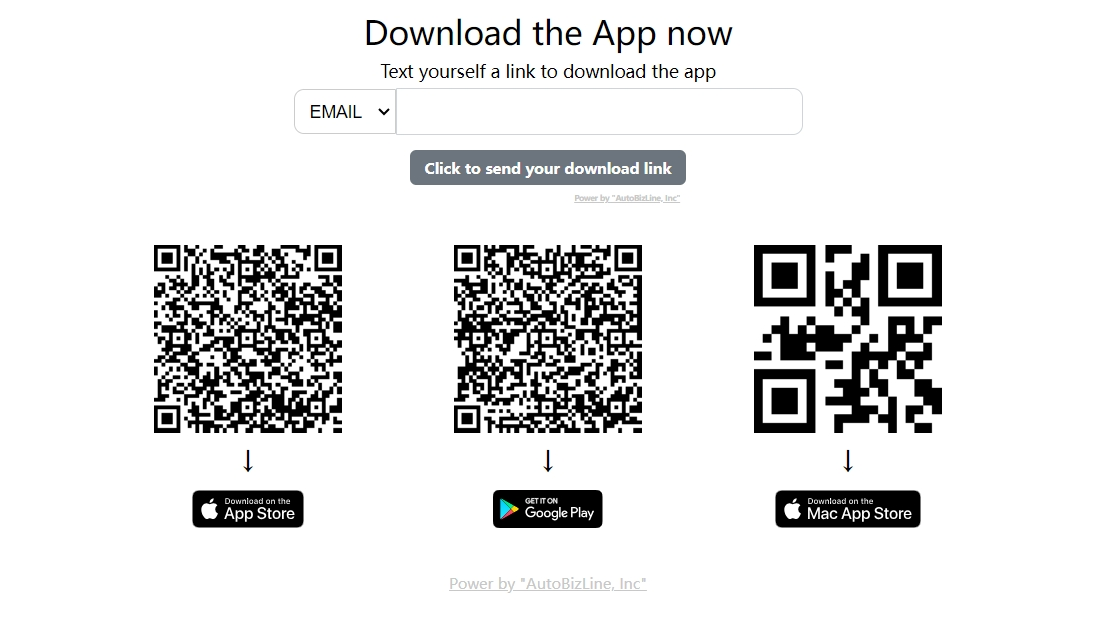
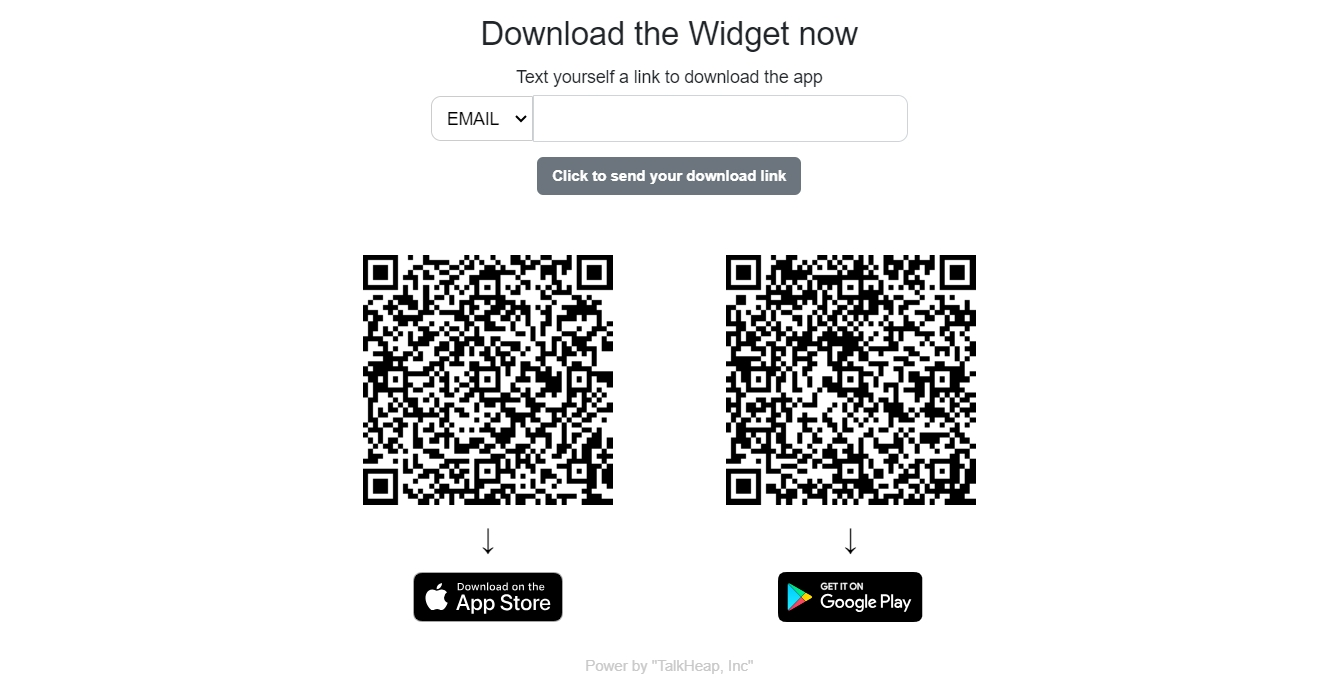
update: readme;

Changed region(s): [[0.1243, 0.3574, 0.8702, 0.9828], [0.2797, 0.0298, 0.6837, 0.2085], [0.3729, 0.2085, 0.6527, 0.3276]]

diff --git a/README.md b/README.md
@@ -1,17 +1,26 @@
-# Custom Widget
+## Download Mobile App Widget
 
-### Free widgets, welcome to use, all you need is a simple copy and paste
+**Boost Download Rate with Free Integration.** Free website widgets that can be easily integrated into your website by simply copying and pasting, in order to improve your website development and download efficiency.
 
-Free website widgets that allow you to customize page elements, simply copy and paste them to add to your website.
+**Example：**
+
+- Download Mobile App Widget
+
+  - ![download widget example](https://github.com/autobizline-widget/custom_widget/blob/main/main/download_widget.png)
+
+- Why Choose Our Plugin:
+  - **Proven 20% Increase in Download Rates:** Our plugin is a game-changer, delivering tangible results with a proven increase of over 20% in app download rates. Experience unparalleled success in app promotion and engagement.
+  - **Free Integration for Developers:** We believe in supporting developers. Enjoy free integration of our plugin into your website, unlocking a world of possibilities without any financial burden.
+  - **Effortless Implementation:** Seamlessly integrate our plugin into your `WordPress `website with ease. No complex procedures, just simple steps to amplify your app's visibility and attract more downloads.
+- Key Features:
+  1. **Optimized HTML Loading Speed:** Experience lightning-fast loading times with our plugin, ensuring an optimal user experience. Accelerate your app download page's performance and capture your audience's attention instantly.
+  2. **Embedded Deep Links:** Say goodbye to unnecessary steps! Our plugin seamlessly embeds deep links that effortlessly redirect users to their respective Android or iOS devices. Eliminate barriers and enhance the user journey for increased downloads.
+  3. **Barcode for Desktop Users:** Revolutionize accessibility with a personalized barcode for desktop users. With a simple scan, users can effortlessly navigate to the app store, ensuring a hassle-free download process. Maximize user convenience and drive more downloads.
+  4. **Email and SMS Integration:** Empower your users to share and access your app effortlessly. Our plugin offers intuitive options for users to send app download links directly to their mobile phones via email or SMS text messages. Expand your reach and encourage organic sharing.
+- Don't miss out on the opportunity to revolutionize your app's success! Join the ranks of savvy developers who have embraced our `WordPress Widget Plugin` and witnessed remarkable growth in downloads. Elevate your app promotion strategy today!
 
 If interested, please contact `widget@talkheap.com` I will reply to you as soon as possible.
 
 You can view our official website to customize your widget, which is completely free.
 
-<a href="https://talkheap.com/">`https://talkheap.com/`
-
-Example：
-
-- download widget
-
-  - ![download widget example](https://github.com/autobizline-widget/custom_widget/blob/main/main/download_widget.png)
+<a href="https://talkheap.com/widget/details/">`https://talkheap.com/widget/details/`</a>
